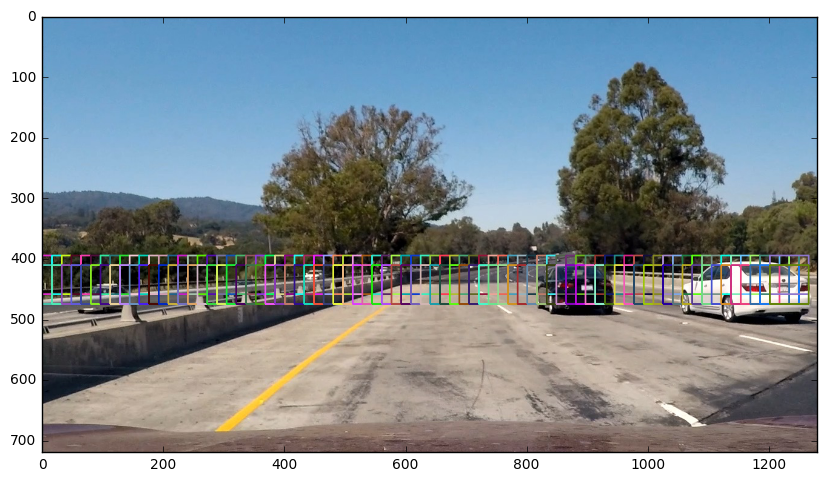
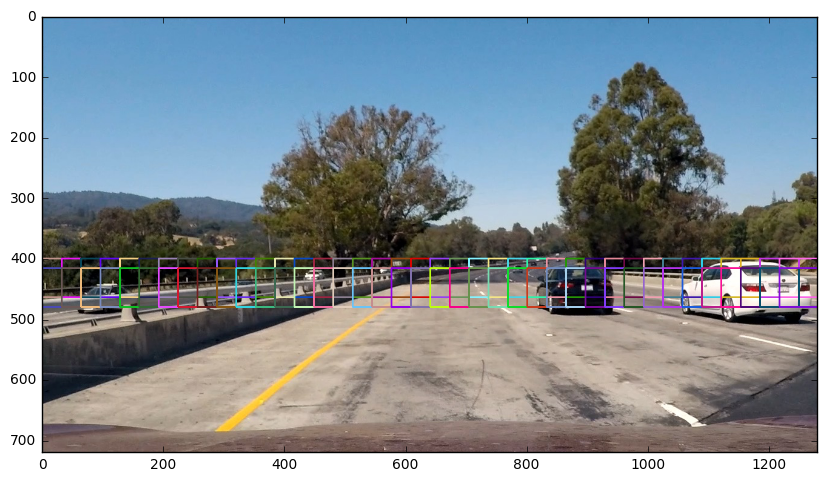
added new images, readme update

Changed region(s): [[0.0303, 0.529, 0.9988, 0.6535]]

diff --git a/README.md b/README.md
@@ -19,6 +19,7 @@ The goals / steps of this project are the following:
 [image4]: ./output_images/04_boxes_1.png
 [image5]: ./output_images/05_boxes_2.png
 [image6]: ./output_images/06_boxes_3.png
+[image6a]: ./output_images/06a_boxes_4.png
 [image7]: ./output_images/07_all_detections.png
 [image8]: ./output_images/08_heatmap.png
 [image9]: ./output_images/09_heatmap_threshold.png
@@ -134,15 +135,33 @@ The image below shows the first attempt at using `find_cars` on one of the test 
 
 ![alt text][image3]
 
-I explored several configurations of window sizes and positions, with various overlaps in the X and Y directions. The following threee images show the configurations of all search windows in the final implementation, for small, medium, and large windows:
+I explored several configurations of window sizes and positions, with various overlaps in the X and Y directions. The following four images show the configurations of all search windows in the final implementation, for small (1x), medium (1.5x, 2x), and large (3x) windows:
 
 ![alt text][image4]
 ![alt text][image5]
 ![alt text][image6]
+![alt text][image6a]
 
 The image below shows the rectangles returned by `find_cars` drawn onto one of the test images in the final implementation. Notice that there are several positive predictions on each of the near-field cars, and one (possible mistaken) prediction on a car in the oncoming lane.
 
 ![alt text][image7]
+
+Because a true positive is typically accompanied by several positive detections, while false positives are typically accompanied by only one or two detections, a combined heatmap and threshold is used to filter out false positives. The `add_heat` function increments the pixel value (referred to as "heat") of an all-black image the size of the original image at the location of each detection rectangle. Areas with more overlapping rectangles are assigned higher levels of heat. The following image is the resulting heatmap from the detections in the image above:
+
+![alt text][image8]
+
+A threshold is applied to the heatmap (in this example, with a value of 1), setting all pixels that don't exceed the threshold to zero. The result is below:
+
+![alt text][image9]
+
+ The `scipy.ndimage.measurements.label()` function collects spatially contiguous areas of the heatmap and assigns each a label:
+
+![alt text][image10]
+
+
+
+![alt text][image11]
+![alt text][image12]
 
 
 
